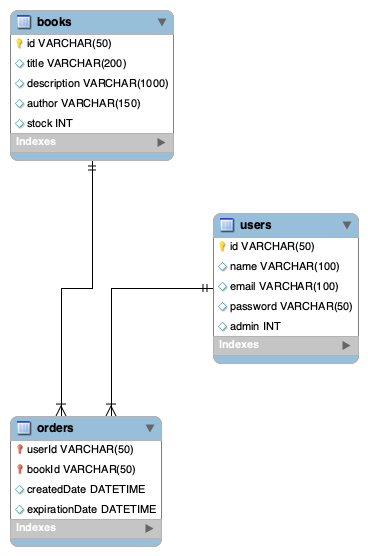
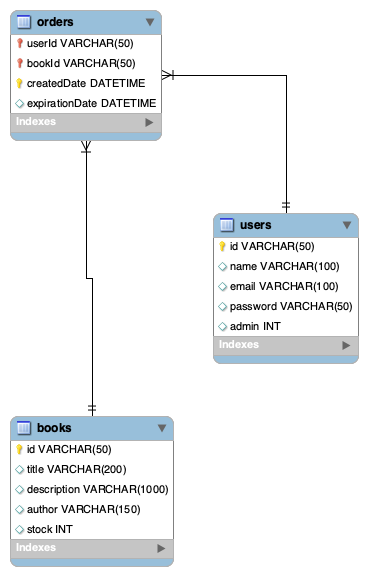
chore(docs): Added database creation script

diff --git a/docs/database.md b/docs/database.md
@@ -21,4 +21,73 @@ Note that the `userId` and `bookId` cannot generate a primary key alone, since o
 The `createdDate` attribute ensures that the primary key is truly unique and multiple same orders are accepted.
 However, this prohibits the user to order two same books at the same time.
 
+## Database Generation Script
+The following script creates the database for the Library Management System application.
+```sql
+SET @OLD_UNIQUE_CHECKS=@@UNIQUE_CHECKS, UNIQUE_CHECKS=0;
+SET @OLD_FOREIGN_KEY_CHECKS=@@FOREIGN_KEY_CHECKS, FOREIGN_KEY_CHECKS=0;
+SET @OLD_SQL_MODE=@@SQL_MODE, SQL_MODE='ONLY_FULL_GROUP_BY,STRICT_TRANS_TABLES,NO_ZERO_IN_DATE,NO_ZERO_DATE,ERROR_FOR_DIVISION_BY_ZERO,NO_ENGINE_SUBSTITUTION';
+
+-- -----------------------------------------------------
+-- Schema library
+-- -----------------------------------------------------
+CREATE SCHEMA IF NOT EXISTS `library` DEFAULT CHARACTER SET utf8mb4 COLLATE utf8mb4_0900_ai_ci ;
+USE `library` ;
+
+-- -----------------------------------------------------
+-- Table `library`.`books`
+-- -----------------------------------------------------
+CREATE TABLE IF NOT EXISTS `library`.`books` (
+  `id` VARCHAR(50) NOT NULL,
+  `title` VARCHAR(200) NULL DEFAULT NULL,
+  `description` VARCHAR(1000) NULL DEFAULT NULL,
+  `author` VARCHAR(150) NULL DEFAULT NULL,
+  `stock` INT NULL DEFAULT '0',
+  PRIMARY KEY (`id`))
+ENGINE = InnoDB
+DEFAULT CHARACTER SET = utf8mb4
+COLLATE = utf8mb4_0900_ai_ci;
+
+
+-- -----------------------------------------------------
+-- Table `library`.`users`
+-- -----------------------------------------------------
+CREATE TABLE IF NOT EXISTS `library`.`users` (
+  `id` VARCHAR(50) NOT NULL,
+  `name` VARCHAR(100) NULL DEFAULT NULL,
+  `email` VARCHAR(100) NULL DEFAULT NULL,
+  `password` VARCHAR(50) NULL DEFAULT NULL,
+  `admin` INT NULL DEFAULT NULL,
+  PRIMARY KEY (`id`))
+ENGINE = InnoDB
+DEFAULT CHARACTER SET = utf8mb4
+COLLATE = utf8mb4_0900_ai_ci;
+
+
+-- -----------------------------------------------------
+-- Table `library`.`orders`
+-- -----------------------------------------------------
+CREATE TABLE IF NOT EXISTS `library`.`orders` (
+  `userId` VARCHAR(50) NOT NULL,
+  `bookId` VARCHAR(50) NOT NULL,
+  `createdDate` DATETIME NOT NULL,
+  `expirationDate` DATETIME NULL DEFAULT NULL,
+  PRIMARY KEY (`userId`, `bookId`, `createdDate`),
+  INDEX `orderId_idx` (`bookId` ASC) VISIBLE,
+  CONSTRAINT `bookId`
+    FOREIGN KEY (`bookId`)
+    REFERENCES `library`.`books` (`id`),
+  CONSTRAINT `userId`
+    FOREIGN KEY (`userId`)
+    REFERENCES `library`.`users` (`id`))
+ENGINE = InnoDB
+DEFAULT CHARACTER SET = utf8mb4
+COLLATE = utf8mb4_0900_ai_ci;
+
+
+SET SQL_MODE=@OLD_SQL_MODE;
+SET FOREIGN_KEY_CHECKS=@OLD_FOREIGN_KEY_CHECKS;
+SET UNIQUE_CHECKS=@OLD_UNIQUE_CHECKS;
+```
+
 by [Tomas Boda](https://github.com/TomasBoda)
